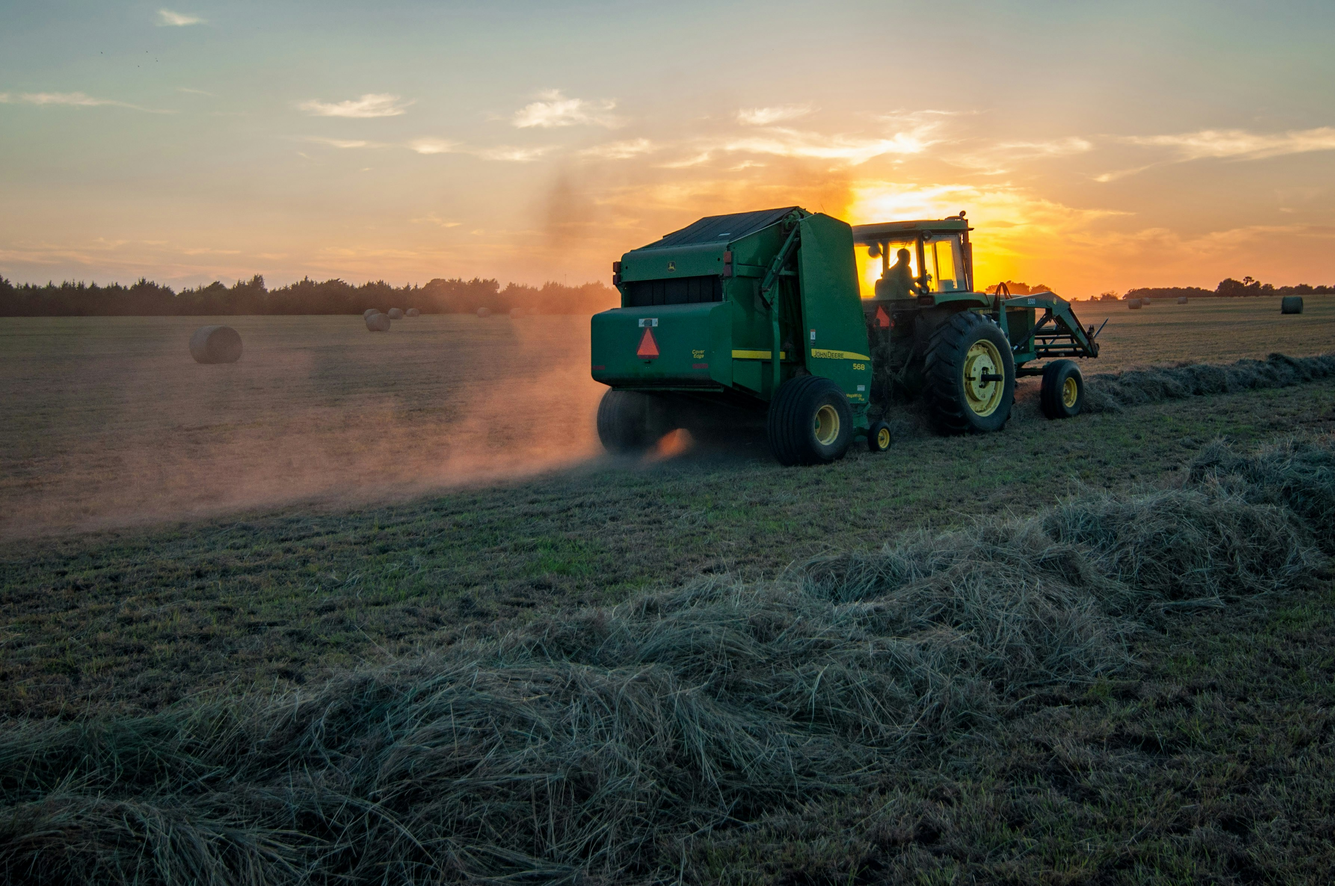
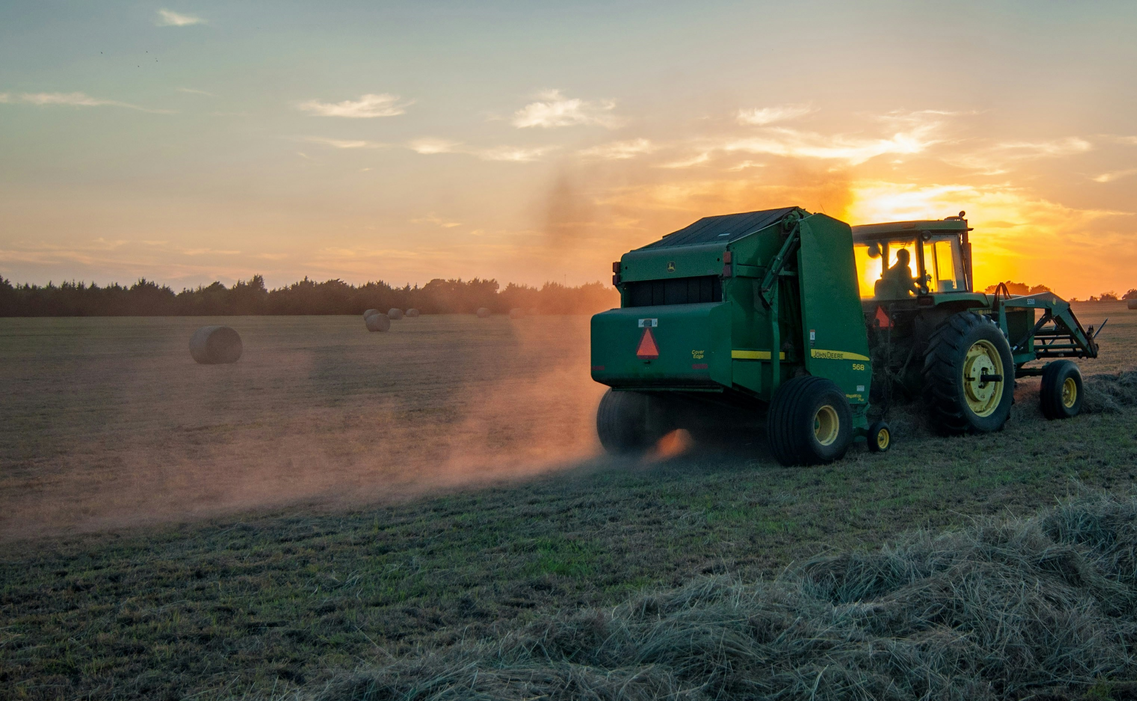
Customise css to suit project, configure static and media files in django

diff --git a/static/css/base.css b/static/css/base.css
@@ -1,17 +1,16 @@
 /* All CSS was initially taken from https://github.com/Code-Institute-Solutions/boutique_ado_v1/blob/master/static/css/base.css*/
 /* All commits/changes after this were modified to suit the design of this project*/
 
-
 html {
     height: 100%;
 }
 
 body {
-    background: url('/media/homepage_background_cropped.jpg') no-repeat center center fixed;
+    background: url('/media/landingpage_background.jpg') no-repeat center center fixed;
     background-size: cover;
     height: calc(100vh - 164px);
     color: #555;
-    font-family: 'Lato';
+    font-family: 'Chelsea Market';
 }
 
 /* from Bulma */
@@ -42,19 +41,6 @@ body {
     color: white;
 }
 
-.btn-outline-black {
-    background: white;
-    color: black !important; /* use important to override link colors for <a> elements */
-    border: 1px solid black;
-}
-
-.btn-outline-black:hover,
-.btn-outline-black:active,
-.btn-outline-black:focus {
-    background: black;
-    color: white !important;
-}
-
 .shop-now-button:hover,
 .shop-now-button:active,
 .shop-now-button:focus,
@@ -73,111 +59,6 @@ body {
     border: 1px solid black !important;
 }
 
-.bg-black {
-    background: #000 !important;
-}
-
-.overlay {
-	height: 100%;
-	width: 100%;
-	top: 0;
-	left: 0;
-	position: fixed;
-	background: white;
-	z-index: -1;
-}
-
-a.category-badge > span.badge:hover {
-    background: #212529 !important;
-    color: #fff !important;
-}
-
-.btt-button {
-    height: 42px;
-    width: 42px;
-    position: fixed;
-    bottom: 10px;
-    right: 10px;
-}
-
-.btt-link,
-.update-link,
-.remove-item {
-    cursor: pointer;
-}
-
-input[name='q']::placeholder {
-    color: #aab7c4;
-}
-
-/* ------------------------------- bootstrap toasts */
-
-.message-container {
-    position: fixed;
-    top: 72px;
-    right: 15px;
-    z-index: 99999999999;
-}
-
-.custom-toast {
-    overflow: visible;
-}
-
-.toast-capper {
-    height: 2px;
-}
-
-/* from CSS-tricks.com: https://css-tricks.com/snippets/css/css-triangle/ */
-.arrow-up {
-    width: 0; 
-    height: 0; 
-    border-left: 4px solid transparent;
-    border-right: 4px solid transparent; 
-    border-bottom: 10px solid black;
-    position: absolute;
-    top: -10px;
-    right: 36px;
-}
-
-/* Convenience classes - colors copied from Bootstrap */
-.arrow-primary {
-    border-bottom-color: #007bff !important;
-}
-
-.arrow-secondary {
-    border-bottom-color: #6c757d !important;
-}
-
-.arrow-success {
-    border-bottom-color: #28a745 !important;
-}
-
-.arrow-danger {
-    border-bottom-color: #dc3545 !important;
-}
-
-.arrow-warning {
-    border-bottom-color: #ffc107 !important;
-}
-
-.arrow-info {
-    border-bottom-color: #17a2b8 !important;
-}
-
-.arrow-light {
-    border-bottom-color: #f8f9fa !important;
-}
-
-.arrow-dark {
-    border-bottom-color: #343a40 !important;
-}
-
-.bag-notification-wrapper {
-    height: 100px;
-    overflow-x: hidden;
-    overflow-y: auto;
-}
-
 /* -------------------------------- Media Queries */
 
 /* Slightly larger container on xl screens */
@@ -186,89 +67,6 @@ input[name='q']::placeholder {
     max-width: 80%;
   }
 }
-
-/* Allauth form formatting */
-
-.allauth-form-inner-content p {
-    margin-top: 1.5rem; /* mt-4 */
-    color: #6c757d; /* text-secondary */
-}
-
-.allauth-form-inner-content input {
-    border-color: #000;
-    border-radius: 0;
-}
-
-.allauth-form-inner-content label:not([for='id_remember']) {
-    display: none;
-}
-
-.allauth-form-inner-content input::placeholder {
-    color: #aab7c4;
-}
-
-.allauth-form-inner-content button,
-.allauth-form-inner-content input[type='submit'] {
-	/* btn */
-	display: inline-block;
-    font-weight: 400;
-    color: #fff;
-    text-align: center;
-    vertical-align: middle;
-    -webkit-user-select: none;
-    -moz-user-select: none;
-    -ms-user-select: none;
-    user-select: none;
-    background-color: #000;
-    border: 1px solid #000;
-    padding: .375rem .75rem;
-    font-size: 1rem;
-    line-height: 1.5;
-    border-radius: 0;
-
-    /* standard bootstrap btn transitions */
-    transition: color .15s ease-in-out,background-color .15s ease-in-out,border-color .15s ease-in-out,box-shadow .15s ease-in-out;
-}
-
-.allauth-form-inner-content button:hover,
-.allauth-form-inner-content input[type='submit']:hover {	
-	color: #fff;
-    background-color: #222;
-    border-color: #222;
-}
-
-.allauth-form-inner-content a {
-	color: #17a2b8; /* text-info */
-}
-
-/* Product Form */
-
-.btn-file {
-    position: relative;
-    overflow: hidden;
-}
-
-.btn-file input[type="file"] {
-    position: absolute;
-    top: 0;
-    right: 0;
-    min-width: 100%;
-    min-height: 100%;
-    opacity: 0;
-    cursor: pointer;
-}
-
-.custom-checkbox .custom-control-label::before {
-    border-radius: 0;
-    border-color: #dc3545;
-}
-
-.custom-checkbox .custom-control-input:checked~.custom-control-label::before {
-    background-color: #dc3545;
-    border-color: #dc3545;
-    border-radius: 0;
-}
-
 
 /* fixed top navbar only on medium and up */
 @media (min-width: 992px) {
@@ -282,52 +80,5 @@ input[name='q']::placeholder {
 
     .header-container {
         padding-top: 164px;
-    }
-}
-
-/* pad the top a bit when navbar is collapsed on mobile */
-@media (max-width: 991px) {
-    .header-container {
-        padding-top: 116px;
-    }
-
-    body {
-        height: calc(100vh - 116px);
-    }
-
-    .display-4.logo-font.text-black {
-        font-size: 2rem;
-    }
-
-    .nav-link {
-        padding: 0.15rem;
-    }
-
-    .nav-link i.fa-lg {
-        font-size: 1rem;
-    }
-
-    .navbar-toggler {
-        padding: .6rem .6rem;
-        font-size: 1rem;
-    }
-
-    #delivery-banner h4 {
-        font-size: .9rem;
-    }
-
-    .btn.btn-outline-black.rounded-0,
-    .btn.btn-black.rounded-0 {
-        padding: .375rem .375rem;
-    }
-
-    .btn.btn-outline-black.rounded-0.btn-lg,
-    .btn.btn-black.rounded-0.btn-lg {
-        padding: .375rem .375rem;
-        font-size: .75rem;
-    }
-
-    .increment-qty, .decrement-qty {
-        padding: .25rem .5rem !important;
     }
 }

diff --git a/templates/base.html b/templates/base.html
@@ -17,6 +17,8 @@
     <!-- Bootstrap CSS -->
     {% block corecss %}
         <link rel="stylesheet" href="https://cdn.jsdelivr.net/npm/bootstrap@4.6.2/dist/css/bootstrap.min.css" integrity="sha384-xOolHFLEh07PJGoPkLv1IbcEPTNtaed2xpHsD9ESMhqIYd0nLMwNLD69Npy4HI+N" crossorigin="anonymous">
+        <link href="https://fonts.googleapis.com/css2?family=Chelsea+Market&family=Kanit:ital,wght@0,100;0,200;0,300;0,400;0,500;0,600;0,700;0,800;0,900;1,100;1,200;1,300;1,400;1,500;1,600;1,700;1,800;1,900&display=swap" rel="stylesheet">
+        <link rel="stylesheet" href="{% static 'css/base.css' %}">
     {% endblock %}
 
     {% block extracss %}
@@ -24,6 +26,7 @@
 
     <!-- Bootstrap JS -->
     {% block corejs %} 
+        <script src="https://kit.fontawesome.com/f08a82e75d.js" crossorigin="anonymous"></script>
         <script src="https://cdn.jsdelivr.net/npm/jquery@3.5.1/dist/jquery.min.js" integrity="sha256-9/aliU8dGd2tb6OSsuzixeV4y/faTqgFtohetphbbj0=" crossorigin="anonymous"></script>
         <script src="https://cdn.jsdelivr.net/npm/popper.js@1.16.1/dist/umd/popper.min.js" integrity="sha384-9/reFTGAW83EW2RDu2S0VKaIzap3H66lZH81PoYlFhbGU+6BZp6G7niu735Sk7lN" crossorigin="anonymous"></script>
         <script src="https://cdn.jsdelivr.net/npm/bootstrap@4.6.2/dist/js/bootstrap.min.js" integrity="sha384-+sLIOodYLS7CIrQpBjl+C7nPvqq+FbNUBDunl/OZv93DB7Ln/533i8e/mZXLi/P+" crossorigin="anonymous"></script>

diff --git a/crop_circle/urls.py b/crop_circle/urls.py
@@ -15,9 +15,11 @@ Including another URLconf
 """
 from django.contrib import admin
 from django.urls import path, include
+from django.conf import settings
+from django.conf.urls.static import static
 
 urlpatterns = [
     path('admin/', admin.site.urls),
     path('accounts/', include('allauth.urls')),
     path('', include('home.urls')),
-]
+] + static(settings.MEDIA_URL, document_root=settings.MEDIA_ROOT)

diff --git a/crop_circle/settings.py b/crop_circle/settings.py
@@ -148,6 +148,10 @@ USE_TZ = True
 # https://docs.djangoproject.com/en/3.2/howto/static-files/
 
 STATIC_URL = '/static/'
+STATICFILES_DIRS = os.path.join(BASE_DIR, 'static'),
+
+MEDIA_URL = '/media/'
+MEDIA_ROOT = os.path.join(BASE_DIR, 'media')
 
 # Default primary key field type
 # https://docs.djangoproject.com/en/3.2/ref/settings/#default-auto-field
